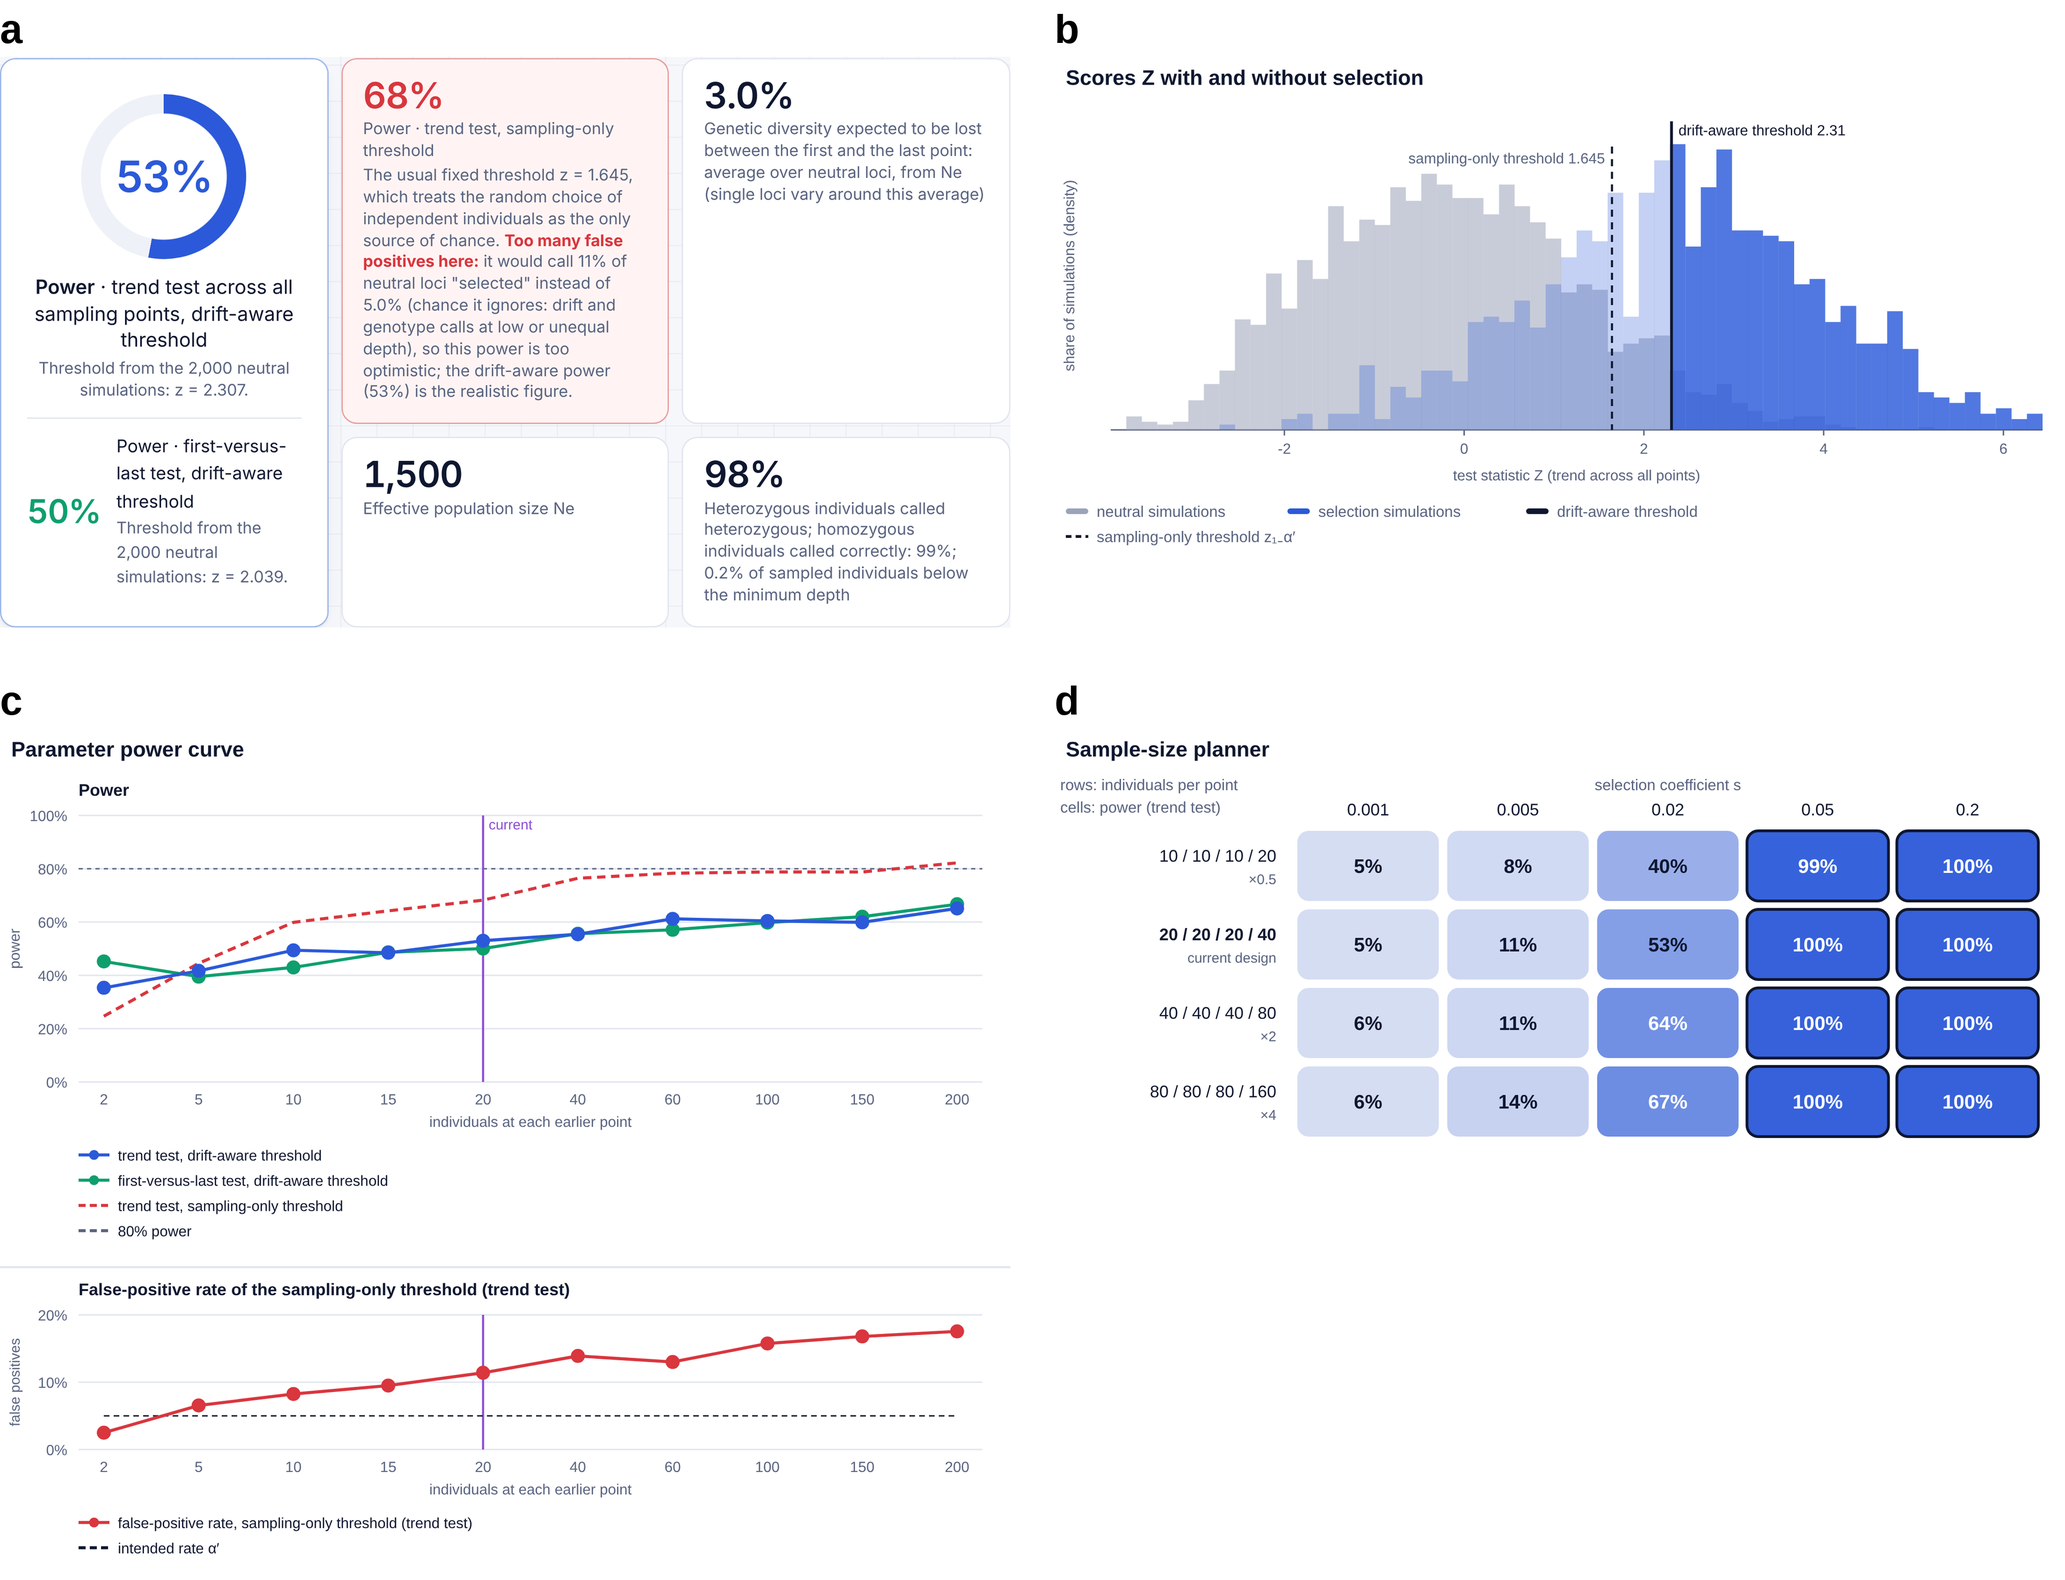
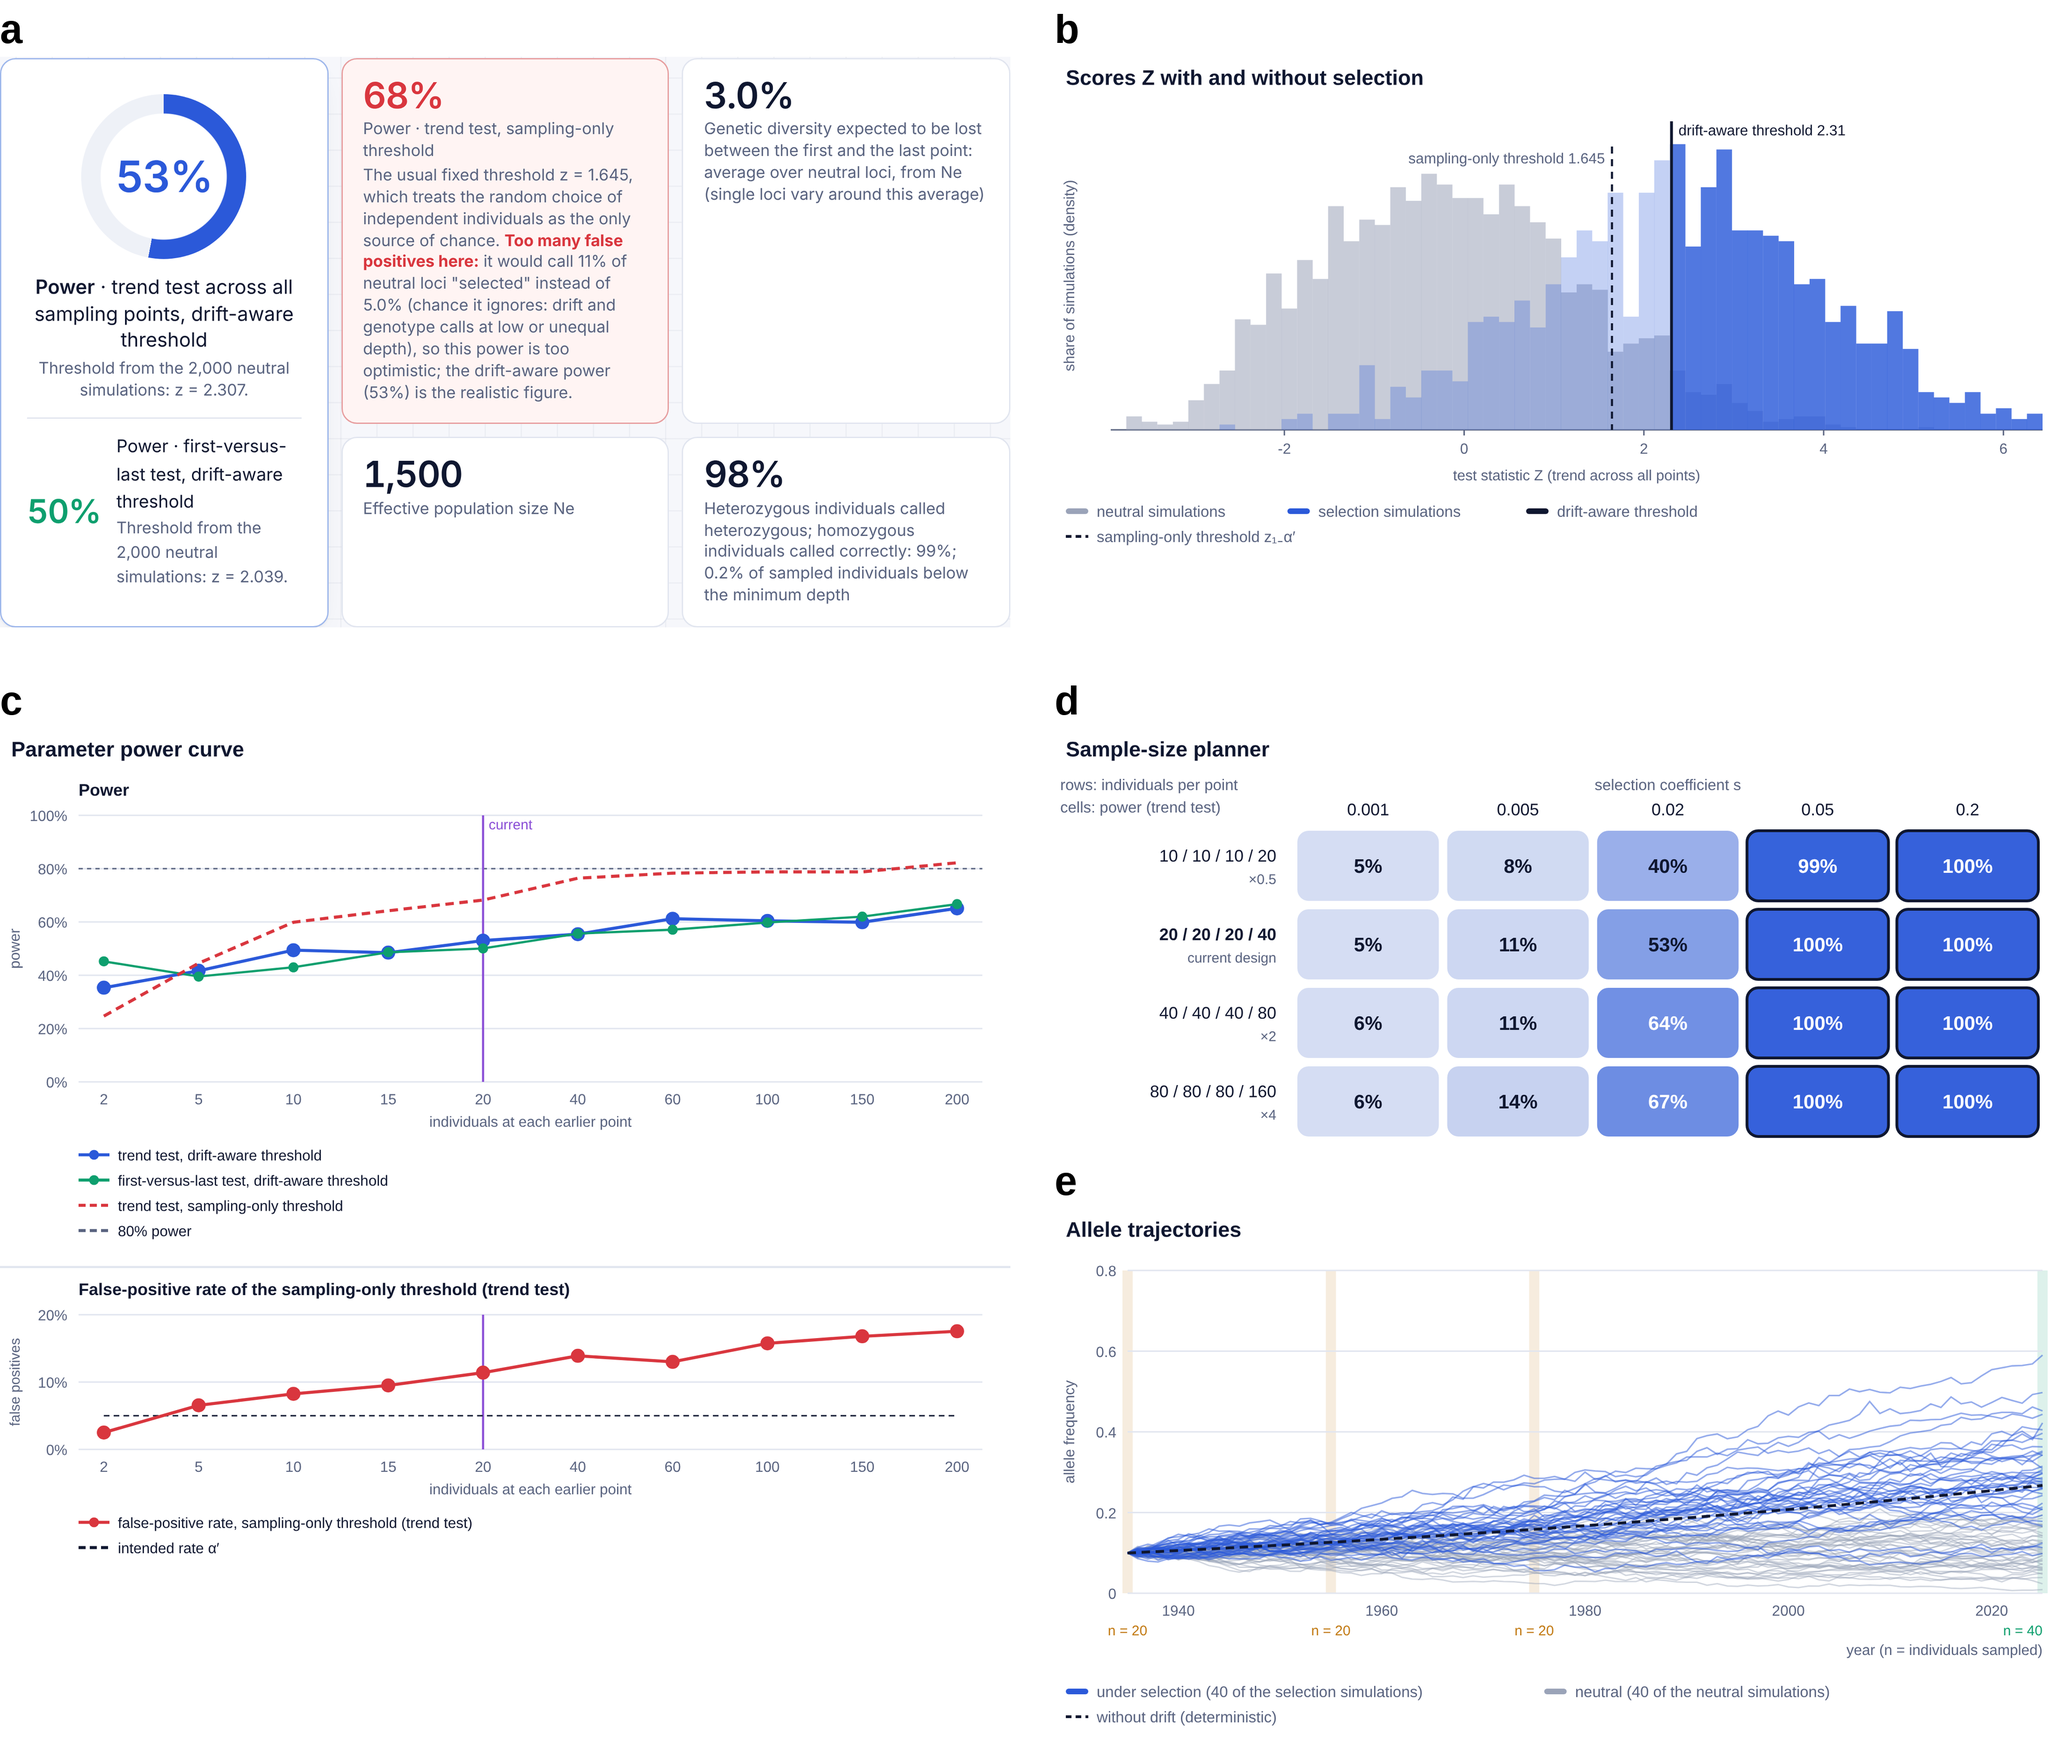
Figure 1: add panel e, allele trajectories (40 selection and 40 neutral simulations, trajectory without drift), below the sample-size planner; panels a-d regenerated with the same settings and seed (same values; panel c shows the current curve drawing)

diff --git a/paper/figures/make_figure1.js b/paper/figures/make_figure1.js
@@ -1,8 +1,8 @@
 // Figure 1 of the paper: the SPOT interface for the museum insect case study (reference case, p0 = 0.1, s = 0.02).
 // Opens index.html with the reference settings, draws the power curve (individuals at each earlier point) and the
-// sample-size planner (selection coefficient), and saves four panels:
-//   a, result tiles (screenshot); b, distribution of Z; c, power curve; d, sample-size planner
-// (b-d from the page's own chart export, light colours, with titles and legends), then assembles Figure1.png.
+// sample-size planner (selection coefficient), and saves five panels:
+//   a, result tiles (screenshot); b, distribution of Z; c, power curve; d, sample-size planner; e, allele trajectories
+// (b-e from the page's own chart export, light colours, with titles and legends), then assembles Figure1.png.
 // Needs Playwright (Chromium) and Python with Pillow. Run from the repository root: node paper/figures/make_figure1.js
 const {chromium} = require('playwright'); const path = require('path'); const fs = require('fs'); const {execFileSync} = require('child_process');
 const {REF} = require('../validation/base.js');
@@ -20,7 +20,7 @@ const OUT = path.resolve('paper/figures'); const S = 3;   // pixel density
   await p.selectOption('#plan-var', 's'); await p.click('#plan-run');
   await p.waitForFunction(() => /settings, each/.test(document.getElementById('plan-status').textContent), null, {timeout: 300000});
   await (await p.$('.tiles')).screenshot({path: path.join(OUT, 'Figure1a.png')});
-  for (const [id, f] of [['ch-dist', 'Figure1b'], ['ch-sweep', 'Figure1c'], ['ch-plan', 'Figure1d']]) {
+  for (const [id, f] of [['ch-dist', 'Figure1b'], ['ch-sweep', 'Figure1c'], ['ch-plan', 'Figure1d'], ['ch-traj', 'Figure1e']]) {
     const svg = await p.evaluate(i => window.__exportChart(document.getElementById(i)).svg, id);
     fs.writeFileSync(path.join(OUT, f + '.svg'), svg);
     const q = await ctx.newPage(); await q.setContent('<html><body style="margin:0;background:#fff">' + svg + '</body></html>');

diff --git a/paper/figures/assemble_figure1.py b/paper/figures/assemble_figure1.py
@@ -1,17 +1,19 @@
-"""Assembles Figure 1 from the four panels saved by make_figure1.js, in a 2 x 2 grid of equal width:
-a, result tiles; b, distribution of Z; c, power curve; d, sample-size planner. Every panel is scaled to the same
+"""Assembles Figure 1 from the five panels saved by make_figure1.js, in two columns of equal width:
+a, result tiles; b, distribution of Z; c, power curve; d, sample-size planner, with e, allele trajectories, below d.
+Every panel is scaled to the same
 width, so text has about the same size everywhere. Panel letters top left."""
 import sys, os
 from PIL import Image, ImageDraw, ImageFont
 D = sys.argv[1]
-P = {k: Image.open(os.path.join(D, 'Figure1%s.png' % k)).convert('RGB') for k in 'abcd'}
+P = {k: Image.open(os.path.join(D, 'Figure1%s.png' % k)).convert('RGB') for k in 'abcde'}
 Wc, G, TOP = 1600, 70, 90
 def fit(im): return im.resize((Wc, round(im.height * Wc / im.width)), Image.LANCZOS)
 P = {k: fit(v) for k, v in P.items()}
-h1 = max(P['a'].height, P['b'].height); h2 = max(P['c'].height, P['d'].height)
+h1 = max(P['a'].height, P['b'].height); h2 = max(P['c'].height, P['d'].height + TOP + P['e'].height)
 W = 2 * Wc + G; H = TOP + h1 + G + TOP + h2 + 20
 F = Image.new('RGB', (W, H), 'white')
-pos = {'a': (0, TOP), 'b': (Wc + G, TOP), 'c': (0, TOP + h1 + G + TOP), 'd': (Wc + G, TOP + h1 + G + TOP)}
+pos = {'a': (0, TOP), 'b': (Wc + G, TOP), 'c': (0, TOP + h1 + G + TOP), 'd': (Wc + G, TOP + h1 + G + TOP),
+       'e': (Wc + G, TOP + h1 + G + TOP + P['d'].height + TOP)}
 dr = ImageDraw.Draw(F)
 try: font = ImageFont.truetype('/usr/share/fonts/truetype/liberation/LiberationSans-Bold.ttf', 64)
 except OSError: font = ImageFont.load_default()
